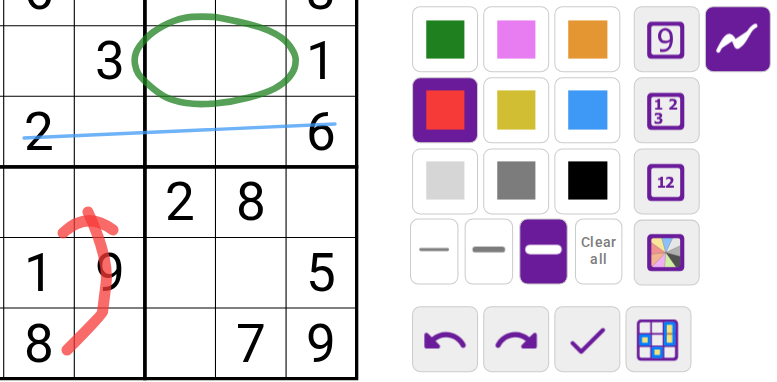
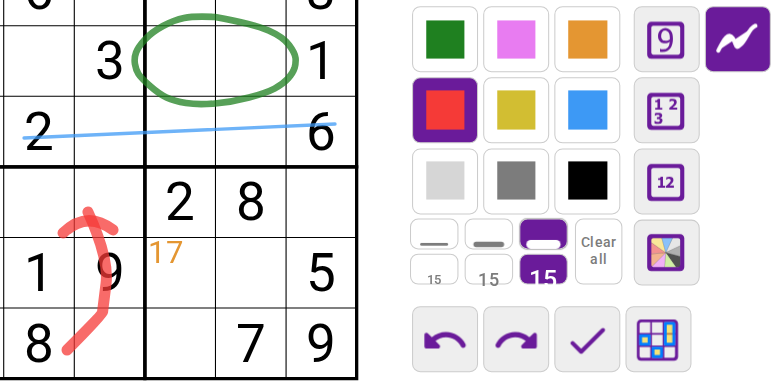
Draw Tool: the homepage shows a typed sum; research note on typed text

diff --git a/site/index.html b/site/index.html
@@ -72,10 +72,10 @@
     </div>
   </section>
   <section>
-    <img src="https://raw.githubusercontent.com/caneff/sudokupad-scripts/main/docs/research/site-draw-tool.png" alt="Freehand lines on a sudoku grid in three pen colors and widths: a thin blue straight line, a green loop round two cells and a thick red curved arrow, beside the Draw panel with its nine pen color buttons, three width buttons and a Clear all button, red and the thick width marked" width="777" height="382">
+    <img src="https://raw.githubusercontent.com/caneff/sudokupad-scripts/main/docs/research/site-draw-tool.png" alt="Freehand lines on a sudoku grid in three pen colors and widths: a thin blue straight line, a green loop round two cells, a thick red curved arrow and an orange cage sum, 17, typed in a cell's corner, beside the Draw panel with its nine pen color buttons, three width buttons, three text size buttons and a Clear all button, red, the thick width and the large text size marked" width="777" height="382">
     <div>
       <h2>Draw Tool</h2>
-      <p>Adds a Draw button to SudokuPad's tools. With it on, drag on the puzzle to draw a smooth freehand line, or hold Shift for a straight one. With Draw on, the keypad shows SudokuPad's nine pen colors, and a click or the digit keys 1 to 9 pick one; three buttons under them pick a thin, middle or thick line. Drag with the right mouse button across a line to erase it, or click Clear all, which asks first, to erase every line. The lines stay on the cells you drew them on, and stay visible when you switch back to entering digits. Each puzzle keeps its own drawing over a reload, for the 50 puzzles you drew on last, and Restart clears it.</p>
+      <p>Adds a Draw button to SudokuPad's tools. With it on, drag on the puzzle to draw a smooth freehand line, or hold Shift for a straight one. With Draw on, the keypad shows SudokuPad's nine pen colors, and a click or the digit keys 1 to 9 pick one; three buttons under them pick a thin, middle or thick line. Click on the puzzle without dragging to type text there, such as a cage sum, in the pen color and one of three text sizes; Enter or a click elsewhere finishes it, Escape drops it, and a click on text lets you change it. Drag with the right mouse button across a line or text to erase it, or click Clear all, which asks first, to erase everything. The lines and text stay on the cells you drew them on, and stay visible when you switch back to entering digits. Each puzzle keeps its own drawing over a reload, for the 50 puzzles you drew on last, and Restart clears it.</p>
       <p><a class="install" href="https://raw.githubusercontent.com/caneff/sudokupad-scripts/main/draw-tool.user.js">Install Draw Tool</a></p>
     </div>
   </section>

diff --git a/docs/research/sudokupad-custom-tool.md b/docs/research/sudokupad-custom-tool.md
@@ -123,3 +123,22 @@ in headless Chromium on Linux.
 - `Framework.closeDialog` does nothing while `window.dialogJustShown` is set, which `showDialog` clears in a
   `setTimeout(0)`. On a page still busy after a reload, a scripted press came before it and the dialog stayed open; a
   live test waits for it to clear.
+
+## Typed text (#273)
+
+SudokuPad v0.611.0 (`script.js`, `framework.js`, `feature-*.js` in the live recording), run on the page in
+`live/draw-tool-text.live.mjs` and `live/draw-tool-erase.live.mjs` (2026-11-06).
+
+- **Where the keys go.** `App` listens for `keydown` on `document` in the capture phase, as do `feature-cellpaste.js`
+  and `feature-compactmarks.js`; `feature-markup.js` listens on `window` in the bubble phase, and `framework.js` on
+  `document`. A listener on `window` in the capture phase runs before every one of them, whatever order they were
+  added in. While a text box is open Draw takes every `keydown`, `keypress` and `keyup` there with
+  `stopImmediatePropagation`, so no digit reaches a cell, no tool key (Z X C V B N M) switches the tool and Shift does
+  not switch to Corner. Checked live with `15`, `Zx C` and Shift+Z typed into a box, Shift held.
+- **A click is a press and release within 2 board units.** Draw tells a click from a stroke at the release of its own
+  press, so a text box never opens on a release or a click alone. Clear all's dialog buttons and its overlay stop
+  their `mousedown` (§ The right button), so closing the dialog by a plain click over the board opens no box. Checked
+  live for a click on Cancel and on the overlay over r1c1.
+- **The text** is an SVG `text` in Draw's layer, anchored at its middle (`text-anchor: middle`,
+  `dominant-baseline: central`), so its point is the click point. Its hit box for a click and for erasing is estimated
+  at 0.6 of the text size per character, not measured, so the pure functions can test it.
